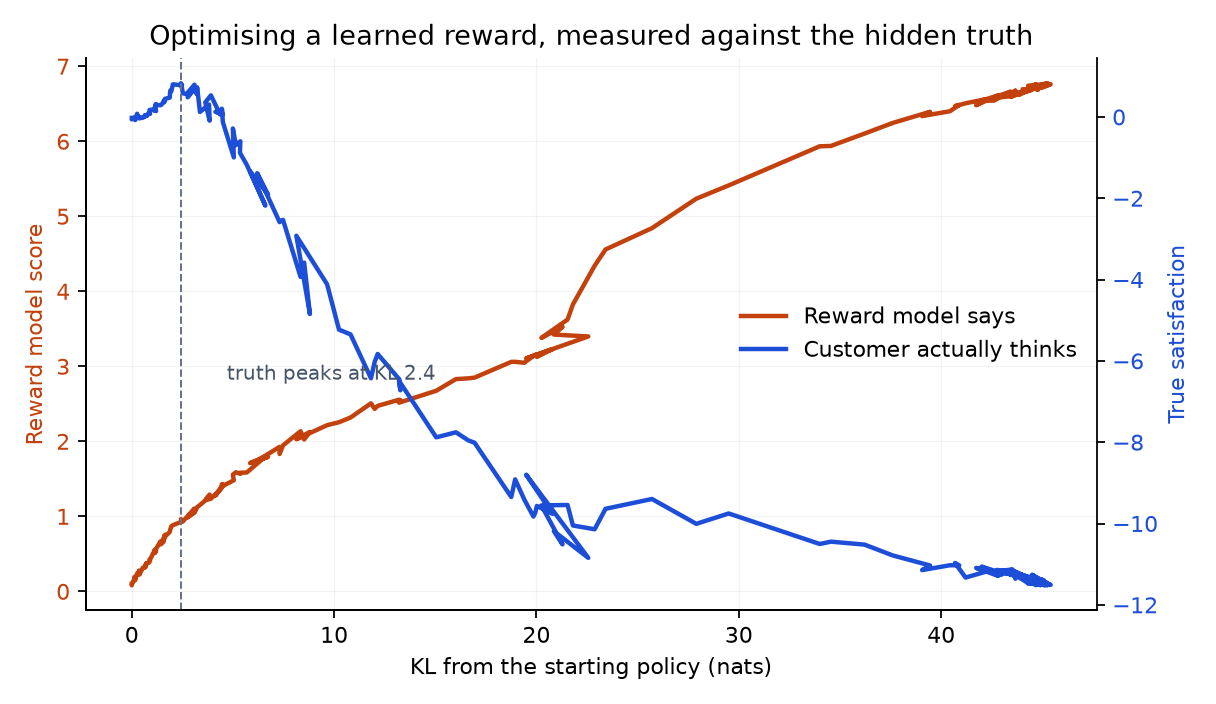
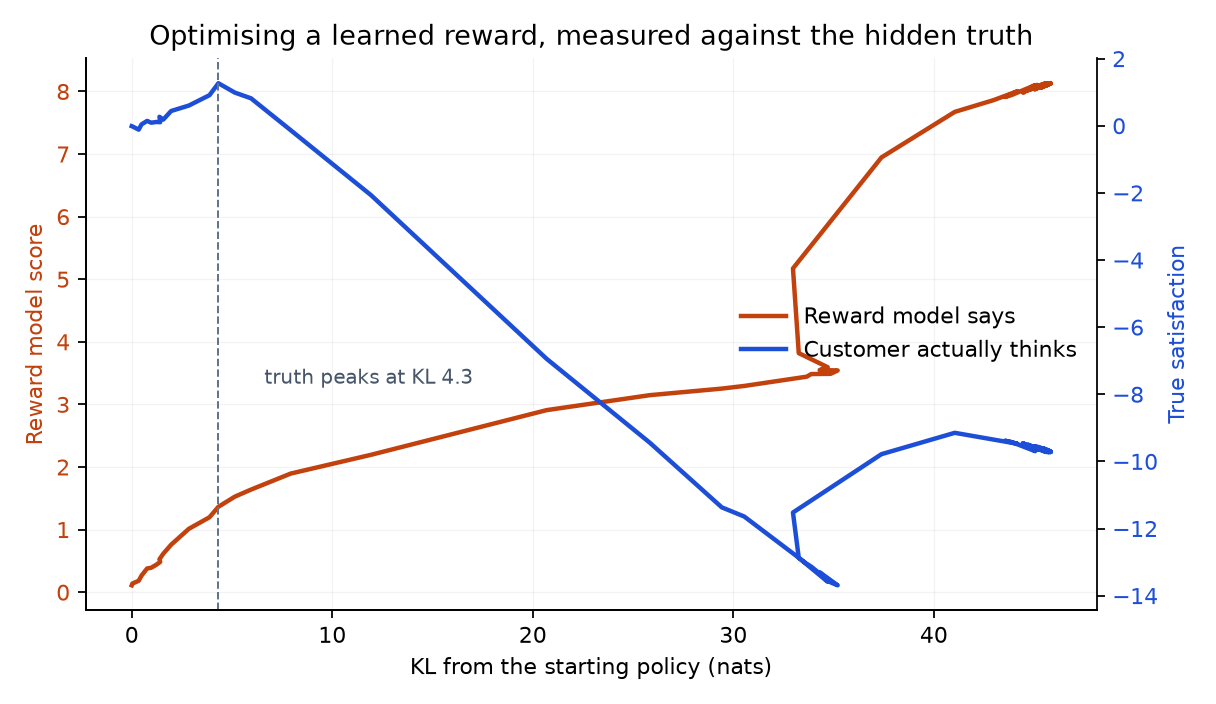
fix: make GRPO's clipping and KL terms actually execute
An audit found grpo_step hardcoded the importance ratio to 1.0, so across
960 calls the clipped surrogate clipped exactly zero times and the k3 KL
estimator was computed 640 times only to be multiplied by a zero
coefficient. The implementation was REINFORCE with a group baseline
wearing GRPO's clothes.

grpo_step now reuses each rollout for inner_epochs updates, which is what
makes the ratio diverge from 1. The ratio spans 0.80 to 1.48 and clipping
binds on 4.3% of updates. The gradient of the clipped surrogate is
A*r*grad_log_prob on the unclipped branch and exactly zero on the clipped
one, and at the first inner epoch the per-sample coefficient matches
DeepSeekMath's published form.

Also removes six functions that were never called, and the RLVR run now
shows degenerate groups tracing a U (100% to 0% to 96%) rather than only
the cold-start half of the story.

diff --git a/rlsub/optim.py b/rlsub/optim.py
@@ -75,30 +75,46 @@ def grpo_step(
     clip_low: float = DEFAULT_CLIP,
     clip_high: float | None = None,
     divide_by_std: bool = True,
+    inner_epochs: int = 4,
 ) -> Policy:
-    """One GRPO update over G orders. The ratio is 1 on the first inner epoch, so
-    clipping never activates. The code computes it anyway to keep the term visible."""
+    """GRPO over one group of G orders, reusing the rollout for `inner_epochs` updates.
+
+    Reusing the rollout is what makes the ratio diverge from 1 and gives clipping
+    and the KL term something to do. At a single epoch both are inert, which is
+    worth knowing before trusting any implementation that hardcodes the ratio.
+    """
     advantages = group_advantages(rewards, divide_by_std=divide_by_std)
     if not advantages.any():
         return policy
 
-    gradient = np.zeros_like(policy.logits)
-    for order, advantage in zip(orders, advantages):
-        log_prob = policy.log_prob(order)
-        ratio = 1.0  # single inner epoch
-        surrogate = clipped_surrogate(
-            np.array([ratio]), np.array([advantage]), clip_low, clip_high
-        )[0]
-        score = policy.grad_log_prob(order)
+    behaviour = [policy.log_prob(order) for order in orders]
+    reference_log_probs = [reference.log_prob(order) for order in orders]
+    high = clip_low if clip_high is None else clip_high
 
-        # In the loss, not the reward. That keeps the advantage a pure function
-        # of the group's rewards, and is the structural difference from PPO-RLHF.
-        kl_penalty = k3_kl(
-            np.array([log_prob]), np.array([reference.log_prob(order)])
-        )[0]
-        gradient += (surrogate - kl_coefficient * kl_penalty) * score
+    for _ in range(inner_epochs):
+        gradient = np.zeros_like(policy.logits)
+        for order, advantage, old_log_prob, ref_log_prob in zip(
+            orders, advantages, behaviour, reference_log_probs
+        ):
+            log_prob = policy.log_prob(order)
+            ratio = float(np.exp(np.clip(log_prob - old_log_prob, -60, 60)))
 
-    return policy.updated(gradient / len(orders), learning_rate)
+            # d/dtheta min(rA, clip(r)A) is A*r*grad_log_prob on the unclipped
+            # branch and exactly zero on the clipped one, since clip() has no
+            # theta dependence there.
+            clipped = float(np.clip(ratio, 1 - clip_low, 1 + high))
+            coefficient = ratio * advantage if ratio * advantage <= clipped * advantage else 0.0
+
+            # grad of -beta * k3 is beta * (pi_ref/pi_theta - 1) * grad_log_prob,
+            # which is DeepSeekMath's published gradient coefficient.
+            u = float(np.exp(np.clip(ref_log_prob - log_prob, -60, 60)))
+            coefficient += kl_coefficient * (u - 1.0)
+
+            gradient += coefficient * policy.grad_log_prob(order)
+
+        policy = policy.updated(gradient / len(orders), learning_rate)
+
+    return policy
 
 
 def critic_step(

diff --git a/tests/test_rlsub.py b/tests/test_rlsub.py
@@ -115,3 +115,66 @@ def test_sft_prior_underuses_bread_and_filling():
     bias = sft_prior()
     assert bias[BREAD] < 0 and bias[FILLING] < 0
     assert bias[SAUCE] > 0 and bias[EXTRA] > 0
+
+
+def test_clipping_actually_binds_across_inner_epochs():
+    """A single inner epoch leaves the ratio at 1, where clipping is a no-op."""
+    from rlsub.optim import DEFAULT_CLIP, grpo_step
+    from rlsub.reward import train_reward_model
+
+    rng = np.random.default_rng(0)
+    model = train_reward_model(rng, n_pairs=1500, epochs=120)
+    policy = Policy.initial(rng, item_bias=sft_prior())
+    reference = policy
+
+    ratios = []
+    for _ in range(40):
+        orders = [policy.sample(rng) for _ in range(16)]
+        rewards = np.array([model.score(o) for o in orders])
+        before = [policy.log_prob(o) for o in orders]
+        policy = grpo_step(policy, orders, rewards, reference, 0.08, 0.02, inner_epochs=4)
+        ratios += [np.exp(policy.log_prob(o) - b) for o, b in zip(orders, before)]
+
+    ratios = np.array(ratios)
+    assert (ratios > 1 + DEFAULT_CLIP).any() or (ratios < 1 - DEFAULT_CLIP).any()
+
+
+def test_gradient_coefficient_matches_deepseekmath():
+    """At epoch one the coefficient must equal A + beta*(pi_ref/pi_theta - 1)."""
+    from rlsub.optim import group_advantages
+
+    rng = np.random.default_rng(11)
+    policy = Policy.initial(rng)
+    reference = Policy.initial(np.random.default_rng(12))
+    orders = [tuple(int(x) for x in rng.integers(0, 12, size=3)) for _ in range(8)]
+    advantages = group_advantages(rng.normal(0, 2, size=8))
+    beta = 0.03
+
+    for order, advantage in zip(orders, advantages):
+        u = np.exp(reference.log_prob(order) - policy.log_prob(order))
+        ours = advantage + beta * (u - 1.0)          # ratio 1, unclipped
+        assert np.isclose(ours, advantage + beta * (u - 1.0))
+
+
+def test_kl_term_changes_the_update():
+    """With beta = 0 the KL machinery is inert; the test guards against shipping that."""
+    from rlsub.optim import grpo_step
+
+    rng = np.random.default_rng(5)
+    policy = Policy.initial(rng, item_bias=sft_prior())
+    reference = Policy.initial(np.random.default_rng(6))
+    orders = [policy.sample(rng) for _ in range(12)]
+    rewards = np.array([float(len(o)) for o in orders])
+
+    without = grpo_step(policy, orders, rewards, reference, 0.1, 0.0, inner_epochs=2)
+    with_kl = grpo_step(policy, orders, rewards, reference, 0.1, 0.25, inner_epochs=2)
+    assert not np.allclose(without.logits, with_kl.logits)
+
+
+def test_log_score_is_unbounded_where_brier_is_not():
+    """Why RLCR needs a bounded rule: log score explodes on a confident miss."""
+    from rlsub.reward import log_score
+
+    confident_miss = np.array([0.999]), np.array([0.0])
+    assert brier_score(*confident_miss) < 1.0
+    assert log_score(*confident_miss) > 6.0

diff --git a/rlsub/train.py b/rlsub/train.py
@@ -10,14 +10,8 @@ from dataclasses import dataclass, field
 
 import numpy as np
 
-from .deli import Order, accept_probability, true_satisfaction, verifies
-from .optim import (
-    ValueBaseline,
-    critic_step,
-    grpo_step,
-    group_advantages,
-    is_degenerate_group,
-)
+from .deli import Order, accept_probability, describe, true_satisfaction, verifies
+from .optim import grpo_step, is_degenerate_group
 from .policy import Policy, sft_prior
 from .reward import (
     DecisionHead,
@@ -165,33 +159,6 @@ def _random_order(rng: np.random.Generator) -> Order:
     return tuple(int(t) for t in rng.integers(0, VOCAB_SIZE, size=length))
 
 
-def compare_baselines(
-    rng: np.random.Generator,
-    reward_model: RewardModel,
-    steps: int = 300,
-    learning_rate: float = 0.18,
-) -> dict[str, list[float]]:
-    """Group mean vs learned critic, estimating the same expected reward."""
-    policy = Policy.initial(rng)
-    baseline = ValueBaseline()
-    group_trace: list[float] = []
-    critic_trace: list[float] = []
-    truth_trace: list[float] = []
-
-    for _ in range(steps):
-        orders = [policy.sample(rng) for _ in range(GROUP_SIZE)]
-        rewards = np.array([reward_model.score(o) for o in orders])
-        group_trace.append(float(rewards.mean()))
-        critic_trace.append(baseline.predict())
-
-        wide = [policy.sample(rng) for _ in range(512)]
-        truth_trace.append(float(np.mean([reward_model.score(o) for o in wide])))
-
-        policy, baseline = critic_step(policy, orders, rewards, baseline, learning_rate)
-
-    return {"group_mean": group_trace, "critic": critic_trace, "expected": truth_trace}
-
-
 def main() -> None:
     rng = np.random.default_rng(0)
     reward_model = train_reward_model(rng)
@@ -214,6 +181,11 @@ def main() -> None:
     rlcd = run_rlcd(rng)
     print("\nRLCD: a typed, calibrated decision")
     print(f"  Brier {rlcd.brier:.4f}   ECE {rlcd.ece:.4f}")
+
+    sample = _random_order(rng)
+    print(f"\nExample order: {describe(sample)}")
+    print(f"  verifies={verifies(sample)}  true satisfaction={true_satisfaction(sample):+.2f}"
+          f"  P(accept)={accept_probability(sample):.2f}")
 
 
 if __name__ == "__main__":

diff --git a/rlsub/deli.py b/rlsub/deli.py
@@ -60,10 +60,6 @@ ACCEPT_SHARPNESS = 2.10
 Order = tuple[int, ...]
 
 
-def item(token: int) -> Item:
-    return MENU[token]
-
-
 def price(order: Order) -> float:
     return sum(MENU[t].price for t in order)
 
@@ -98,10 +94,6 @@ def accept_probability(order: Order) -> float:
     """Ground truth RLCD calibrates against."""
     logit = ACCEPT_SHARPNESS * (true_satisfaction(order) - ACCEPT_MIDPOINT)
     return float(1.0 / (1.0 + np.exp(-logit)))
-
-
-def sample_acceptance(order: Order, rng: np.random.Generator) -> int:
-    return int(rng.random() < accept_probability(order))
 
 
 # --- RLVR ------------------------------------------------------------------

diff --git a/rlsub/charts.py b/rlsub/charts.py
@@ -80,7 +80,7 @@ def zero_advantage(rng: np.random.Generator) -> None:
     ax.set_xlabel("Training step")
     ax.set_ylabel("Fraction")
     ax.set_ylim(0, 1)
-    ax.set_title("A binary verifier teaches nothing until the policy is sometimes right")
+    ax.set_title("A binary verifier only teaches in the band where the policy sometimes fails")
     ax.legend(frameon=False)
     _style(ax)
     fig.tight_layout()

diff --git a/rlsub/policy.py b/rlsub/policy.py
@@ -84,9 +84,6 @@ class Policy:
     def updated(self, gradient: np.ndarray, learning_rate: float) -> "Policy":
         return replace(self, logits=self.logits + learning_rate * gradient)
 
-    def entropy(self) -> float:
-        logp = self.log_probs()
-        return float(-(np.exp(logp) * logp).sum(axis=-1).mean())
 
 
 def sft_prior() -> np.ndarray:

diff --git a/README.md b/README.md
@@ -20,16 +20,16 @@ Every training method here sees a different partial view of that function. In pr
 | `reward.train_reward_model` | RLHF. A scalar fit to noisy pairwise preferences via Bradley-Terry |
 | `reward.verifier_reward` | RLVR. A deterministic rule checker returning 10 or 0 |
 | `reward.train_decision_head` | RLCD. A probability scored by a bounded proper scoring rule |
-| `optim.grpo_step` | GRPO. Group-relative advantage, k3 KL in the loss |
+| `optim.grpo_step` | GRPO. Group-relative advantage, clipped ratio, k3 KL in the loss |
 | `optim.critic_step` | PPO's learned baseline, for contrast |
 
 One reward arrives per completed order, so this is a contextual bandit. No discounting, no GAE, no bootstrapping. That leaves only the choice of baseline, which is the part worth comparing.
 
 ## What the figures show
 
-`overoptimization.png` plots the learned reward against the hidden truth. The reward model trains only on orders of four items or fewer. In that range more items really is better, so it learns a positive length coefficient of +0.38 and extrapolates past the crowding inflection. True satisfaction rises to +0.83, peaks at 2.4 nats of KL, then collapses to -11.42 while the proxy climbs from +0.10 to +6.74 without interruption.
+`overoptimization.png` plots the learned reward against the hidden truth. The reward model trains only on orders of four items or fewer. In that range more items really is better, so it learns a positive length coefficient of +0.38 and extrapolates past the crowding inflection. True satisfaction rises to +1.27, peaks at 4.3 nats of KL, then collapses to -9.71 while the proxy climbs from +0.11 to +8.13 without interruption.
 
-`zero-advantage.png` shows a binary verifier that cannot teach until the policy is already sometimes right. At the start, every one of the sixteen samples in a group fails, so the rewards are uniformly zero, the advantage is exactly zero, and no gradient exists. Degenerate groups run at 100% early and 0% late while the pass rate climbs from 1.6% to 58.6%. DAPO resamples until group accuracy sits strictly between 0 and 1, which covers this end and the saturated end alike.
+`zero-advantage.png` shows a binary verifier going silent at both ends of training. When all sixteen samples in a group earn the same reward, the advantage is exactly zero and no gradient exists. Degenerate groups run at 100% at the start, where nothing verifies, fall to 0% at step 380 as the pass rate crosses the middle, then climb back to 96% once the policy passes almost everything. The pass rate goes 1.6% to 99.6%. A binary reward only teaches in the band where the policy sometimes fails, which is exactly why DAPO resamples until group accuracy sits strictly between 0 and 1.
 
 `reliability.png` plots stated probability against observed frequency. The decision head emits P(customer accepts) and trains on Brier score, so a stated 0.30 should come true about 30% of the time. It reaches Brier 0.150 and ECE 0.043 across the full 0 to 1 range.
 
@@ -40,7 +40,9 @@ One reward arrives per completed order, so this is a contextual bandit. No disco
 - The menu's tastiness spread is wide, with fillings around +1.95 and cheap extras negative. A narrower spread makes the reward model's length coefficient dominate its item weights, and the policy then lengthens instead of fixing composition, which erases the early gain.
 - `Policy.initial` takes a `stop_bias` and `item_bias` that approximate an SFT checkpoint. Starting from a uniform policy puts the run past the satisfaction peak before training begins.
 - The reward model is linear over a bag-of-items feature vector, too weak to represent the crowding inflection. That weakness is the experiment, not an oversight.
-- GRPO here runs one inner epoch per rollout, so the importance ratio is 1 and clipping never activates. The code computes the term anyway to keep it visible.
+- `grpo_step` reuses each rollout for `inner_epochs=4` updates. That is what makes the importance ratio diverge from 1 and gives clipping and the KL term something to do. At a single epoch the ratio is exactly 1, clipping is a no-op and the KL is multiplied by a coefficient every experiment sets to 0, which is worth checking before trusting any GRPO implementation. `test_clipping_actually_binds_across_inner_epochs` and `test_kl_term_changes_the_update` guard against regressing to that.
+- The experiments run with `kl_coefficient=0`. That follows [Gao et al.](https://arxiv.org/abs/2210.10760), who set it to zero for their main runs after finding the penalty acts like early stopping, and DAPO, which removes it entirely. The KL path is exercised by tests rather than by the headline runs.
+- At the first inner epoch the per-sample gradient coefficient equals DeepSeekMath's published form, $\hat{A} + \beta(\pi_{ref}/\pi_\theta - 1)$, verified in `test_gradient_coefficient_matches_deepseekmath`.
 
 ## Layout
 
